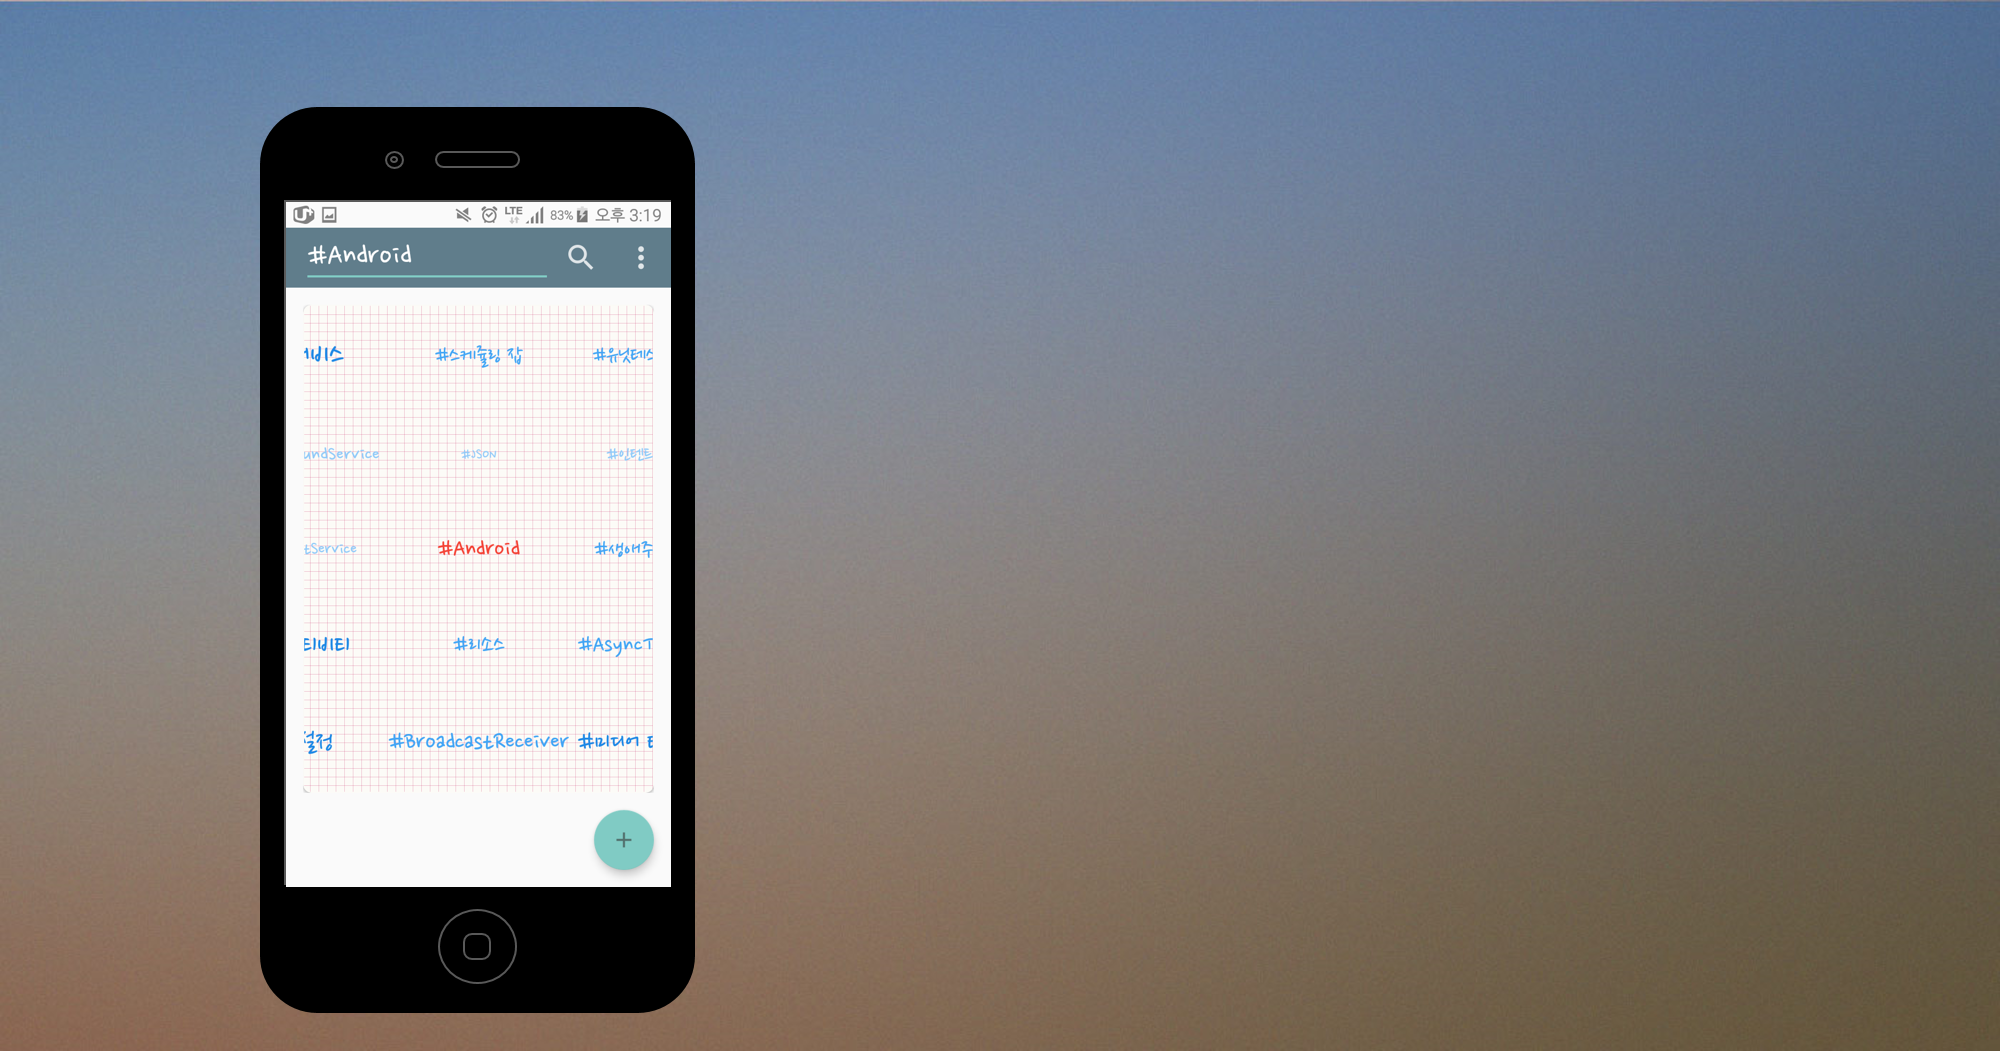
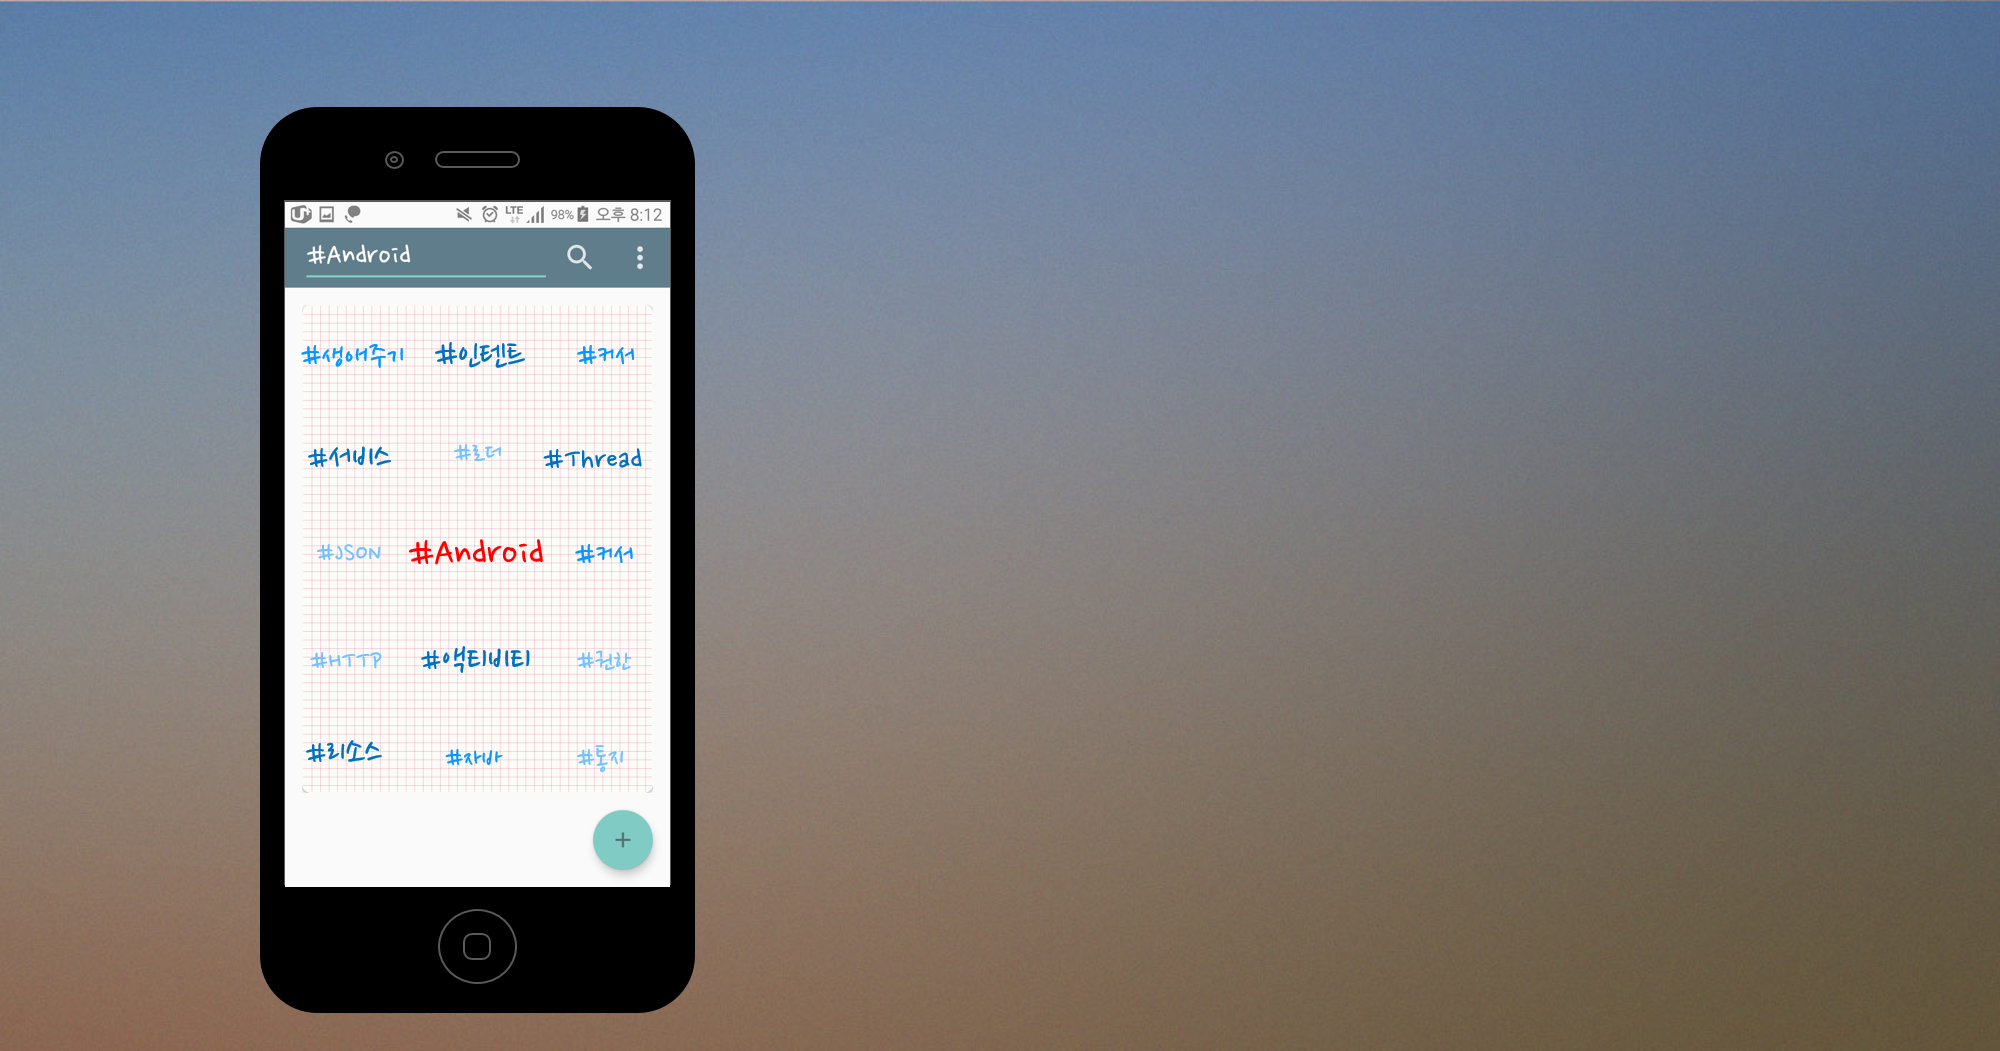
마무리

Changed region(s): [[0.155, 0.3045, 0.341, 0.7612], [0.217, 0.1827, 0.341, 0.2131], [0.124, 0.1827, 0.186, 0.274]]

diff --git a/docs/index.html b/docs/index.html
@@ -25,8 +25,8 @@
 						<li><a href="#zero">Intention</a></li>
 						<li><a href="#one">What I Do I</a></li>
 						<li><a href="#two">What I Do II</a></li>
-						<li><a href="#work">Overview</a></li>
 						<li><a href="#contact">Sample Video</a></li>
+						<li><a href="#work">Overview</a></li>
 					</ul>
 				</nav>
 			</header>
@@ -74,7 +74,28 @@
 					</header>
 					<p>무작위로 생성되는 세 개의 단어를 연결하여 이야기를 만드는 연습을 함으로써, <strong>생각하는 힘을 기를 수 있습니다.</strong></p>
 				</div>
-				<a href="#work" class="button style2 down anchored">Next</a>
+				<a href="#contact" class="button style2 down anchored">Next</a>
+			</section>
+
+		<!-- Contact -->
+			<section id="contact" class="main style3 secondary">
+				<div class="content">
+					<header>
+						<h2>시연 영상</h2>
+						<p>간단한 앱 시연 영상입니다.</p>
+					</header>
+					<div class="box">
+						<!-- <form method="post" action="#">
+							<div class="field half first"><input type="text" name="name" placeholder="Name" /></div>
+							<div class="field half"><input type="email" name="email" placeholder="Email" /></div>
+							<div class="field"><textarea name="message" placeholder="Message" rows="6"></textarea></div>
+							<ul class="actions">
+								<li><input type="submit" value="Send Message" /></li>
+							</ul>
+						</form> -->
+						<iframe width="560" height="315" src="https://www.youtube.com/embed/4sz1WXtDIgE" frameborder="0" allowfullscreen></iframe>
+					</div>
+				</div>
 			</section>
 
 		<!-- Work -->
@@ -110,25 +131,7 @@
 				</div>
 			</section>
 
-		<!-- Contact -->
-			<section id="contact" class="main style3 secondary">
-				<div class="content">
-					<header>
-						<h2>시연 영상</h2>
-						<p>간단한 앱 시연 영상입니다.</p>
-					</header>
-					<div class="box">
-						<!-- <form method="post" action="#">
-							<div class="field half first"><input type="text" name="name" placeholder="Name" /></div>
-							<div class="field half"><input type="email" name="email" placeholder="Email" /></div>
-							<div class="field"><textarea name="message" placeholder="Message" rows="6"></textarea></div>
-							<ul class="actions">
-								<li><input type="submit" value="Send Message" /></li>
-							</ul>
-						</form> -->
-					</div>
-				</div>
-			</section>
+
 
 		<!-- Footer -->
 			<footer id="footer">

diff --git a/ThinkTank/app/src/main/java/com/boostcamp/jr/thinktank/TTSplashActivity.java b/ThinkTank/app/src/main/java/com/boostcamp/jr/thinktank/TTSplashActivity.java
@@ -1,0 +1,38 @@
+package com.boostcamp.jr.thinktank;
+
+import android.content.Intent;
+import android.os.Bundle;
+import android.os.Handler;
+
+import com.wang.avi.AVLoadingIndicatorView;
+
+import butterknife.BindView;
+import butterknife.ButterKnife;
+
+public class TTSplashActivity extends MyActivity {
+
+    @BindView(R.id.start_indicator)
+    AVLoadingIndicatorView mIndicatorView;
+
+    private final int SPLASH_DISPLAY_LENGTH = 2000;
+
+    @Override
+    protected void onCreate(Bundle savedInstanceState) {
+        super.onCreate(savedInstanceState);
+        setContentView(R.layout.activity_tt_splash_activity);
+        ButterKnife.bind(this);
+
+         /* SPLASH_DISPLAY_LENGTH 뒤에 메뉴 액티비티를 실행시키고 종료한다.*/
+        new Handler().postDelayed(new Runnable(){
+            @Override
+            public void run() {
+                /* 메뉴액티비티를 실행하고 로딩화면을 죽인다.*/
+                Intent mainIntent = new Intent(TTSplashActivity.this, TTMainActivity.class);
+                TTSplashActivity.this.startActivity(mainIntent);
+                TTSplashActivity.this.finish();
+            }
+        }, SPLASH_DISPLAY_LENGTH);
+
+        mIndicatorView.show();
+    }
+}

diff --git a/ThinkTank/app/src/main/java/com/boostcamp/jr/thinktank/utils/TestUtil.java b/ThinkTank/app/src/main/java/com/boostcamp/jr/thinktank/utils/TestUtil.java
@@ -26,10 +26,10 @@ import retrofit2.Response;
 
 public class TestUtil {
 
-    public static String[] keywordList = { "Android", "액티비티", "패키지", "레이아웃", "설정", "HTTP요청", "AsyncTask",
-            "JSON", "RecyclerView", "인텐트", "미디어 타입", "생애주기", "로더", "Preference", "리소스", "SQLite",
-            "유닛테스트", "ContentProvider", "커서", "서비스", "IntentService", "PendingIntent", "ForegroundService",
-            "스케쥴링 잡", "BroadcastReceiver"};
+    public static String[] keywordList = { "놓치다", "대기", "독립", "돌아보다", "또다시", "머릿속", "북쪽",
+            "불안하다", "쇠고기", "위반", "주", "카드", "평생", "해당하다", "간부", "관념", "굉장히", "단어",
+            "덮다", "도와주다", "도입", "몰다", "배우", "비추다", "신발", "알", "앞서다", "여건", "오래전",
+            "자격", "통제", "계단", "김치", "끄덕이다", "낯설다", "높이", "닮다", "마음속", "못지않다"};
 
     public static void generateThink(Context context) {
         ThinkItem thinkItem = new ThinkItem();

diff --git a/ThinkTank/app/src/main/java/com/boostcamp/jr/thinktank/TTMainActivity.java b/ThinkTank/app/src/main/java/com/boostcamp/jr/thinktank/TTMainActivity.java
@@ -128,8 +128,8 @@ public class TTMainActivity extends MyActivity
 
         setCalendar();
 
-        DesignSpec background1 = DesignSpec.fromResource(mLayoutShowKeyword, R.raw.background);
-        mLayoutShowKeyword.setBackground(background1);
+        DesignSpec background1 = DesignSpec.fromResource(mScrollView, R.raw.background);
+        mScrollView.setBackground(background1);
 
         DesignSpec background2 = DesignSpec.fromResource(mLayoutForAllKeyword, R.raw.background);
         mLayoutForAllKeyword.setBackground(background2);
@@ -474,7 +474,7 @@ public class TTMainActivity extends MyActivity
                 if (i == 0) {
                     textView.setTextColor(getColor(R.color.red));
                 } else {
-                    if (textSize > 25 && textSize <= 35) {
+                    if (textSize > 25 && textSize <= 30) {
                         textView.setTextColor(getColor(R.color.blue1));
                     } else if (textSize >= 20 && textSize <= 25) {
                         textView.setTextColor(getColor(R.color.blue2));

diff --git a/ThinkTank/app/src/main/java/com/boostcamp/jr/thinktank/TTRandomMainActivity.java b/ThinkTank/app/src/main/java/com/boostcamp/jr/thinktank/TTRandomMainActivity.java
@@ -477,6 +477,7 @@ public class TTRandomMainActivity extends MyActivity
         int id = item.getItemId();
 
         if (id == R.id.action_more) {
+            hideSoftInput();
             mMenuDialogFragment.show(getSupportFragmentManager(), "ContextMenuDialogFragment");
             return true;
         } else if (id == android.R.id.home) {
